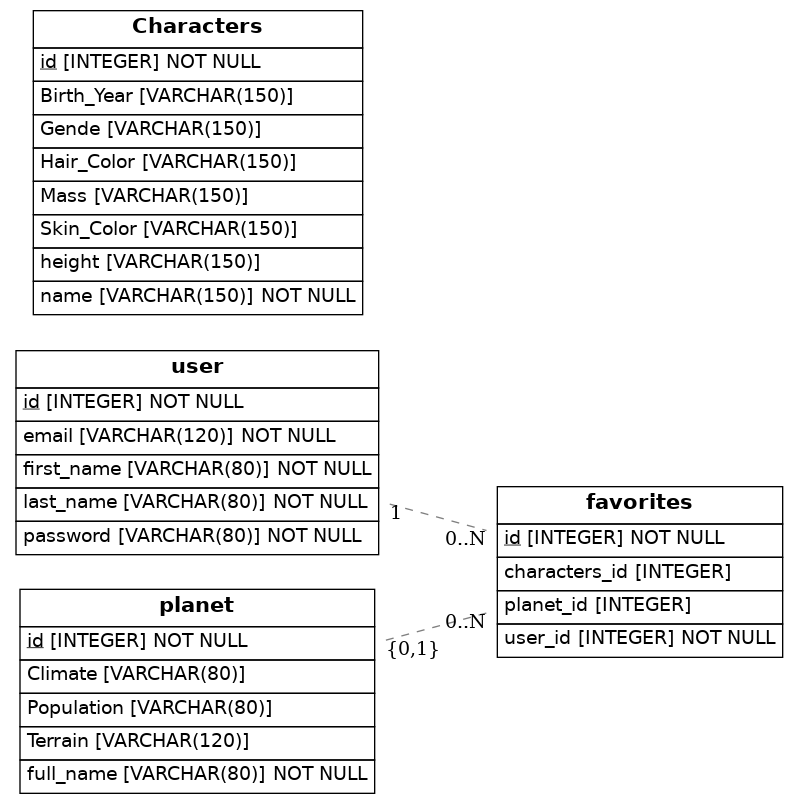
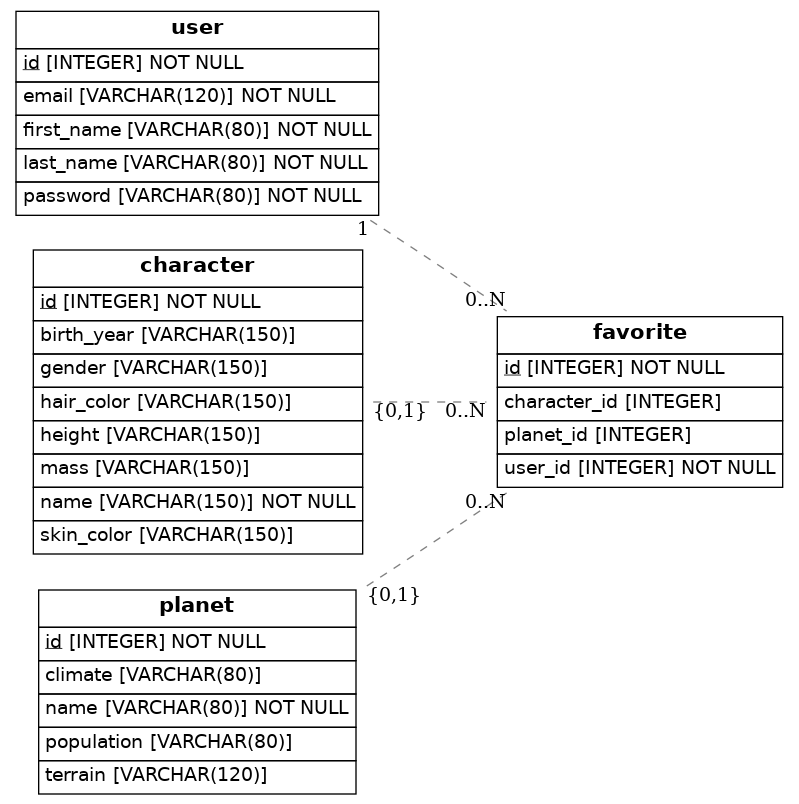
last update

Changed region(s): [[0.0, 0.0, 0.9912, 0.9963]]

diff --git a/src/models.py b/src/models.py
@@ -9,8 +9,6 @@ Base = declarative_base()
 
 class User(Base):
     __tablename__ = 'user'
-    # Here we define columns for the table person
-    # Notice that each column is also a normal Python instance attribute.
     id = Column(Integer, primary_key=True)
     first_name = Column(String(80), nullable=False)
     last_name = Column(String(80), nullable=False)
@@ -19,47 +17,39 @@ class User(Base):
 
     favorites = relationship('Favorite', back_populates='user')
 
-class Characters(Base):
-    __tablename__ = 'Characters'
-    
+class Character(Base):
+    __tablename__ = 'character'
     id = Column(Integer, primary_key=True)
     name = Column(String(150), nullable=False)
     height = Column(String(150))
-    Mass = Column(String(150))
-    Hair_Color = Column(String(150))
-    Skin_Color = Column(String(150))
-    Birth_Year = Column(String(150))
-    Gende = Column(String(150))
-     
-    favorites = relationship('Favorite', back_populates='characters')
+    mass = Column(String(150))
+    hair_color = Column(String(150))
+    skin_color = Column(String(150))
+    birth_year = Column(String(150))
+    gender = Column(String(150))
+    
+    favorites = relationship('Favorite', back_populates='character')
 
 class Planet(Base):
     __tablename__ = 'planet'
-    # Here we define columns for the table person
-    # Notice that each column is also a normal Python instance attribute.
     id = Column(Integer, primary_key=True)
-    full_name = Column(String(80), nullable=False)
-    Climate = Column(String(80) )
-    Terrain = Column(String(120) )
-    Population = Column(String(80))
+    name = Column(String(80), nullable=False)
+    climate = Column(String(80))
+    terrain = Column(String(120))
+    population = Column(String(80))
 
     favorites = relationship('Favorite', back_populates='planet')
-    
-class Favorites(Base):
-  __tablename__ = 'favorites'
-    # # Here we define columns for the table person
-    # # Notice that each column is also a normal Python instance attribute.
-  id = Column(Integer, primary_key=True)
-  user_id = Column(Integer,ForeignKey('user.id'), nullable=False)
-  characters_id = Column(Integer,ForeignKey('characters.id'), nullable=True )
-  planet_id = Column(Integer,ForeignKey('planet.id'), nullable=True )
+
+class Favorite(Base):
+    __tablename__ = 'favorite'
+    id = Column(Integer, primary_key=True)
+    user_id = Column(Integer, ForeignKey('user.id'), nullable=False)
+    character_id = Column(Integer, ForeignKey('character.id'), nullable=True)
+    planet_id = Column(Integer, ForeignKey('planet.id'), nullable=True)
         
-  user =relationship('user', back_populates= 'favorites')
-  characters =relationship('characters', back_populates= 'favorites')
-  planet =relationship('planet', back_populates= 'favorites')
+    user = relationship('User', back_populates='favorites')
+    character = relationship('Character', back_populates='favorites')
+    planet = relationship('Planet', back_populates='favorites')
 
 ## Draw from SQLAlchemy base
 render_er(Base, 'diagram.png')
-
-#     # Here we define columns for the table address.
-#     # Notice that each column is also a normal Python instance attribute.
